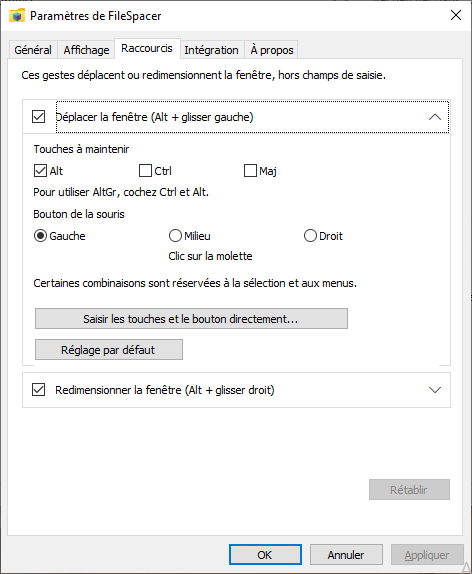
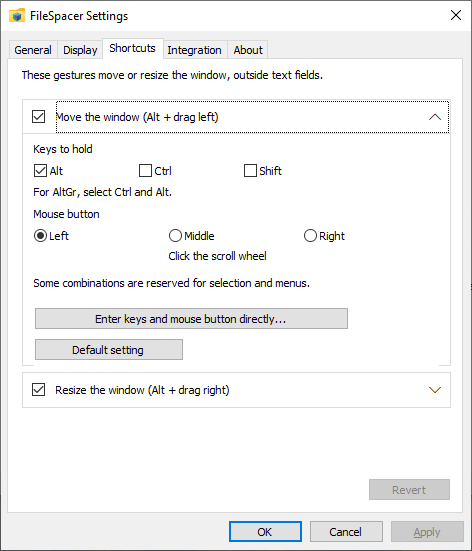
docs: Add bilingual window demos and a latest-release link.
Use English screenshots on the site and preserve the French originals. Add ScreenToGif move/resize demos in both languages, document the padlock badge with title close-ups, and link to the latest release from the site header.

diff --git a/docs/images/README.md b/docs/images/README.md
@@ -1,7 +1,7 @@
 # Documentation screenshots
 
-These PNGs are stored in the repository, alongside the documentation. Markdown
-uses relative paths, so GitHub displays them directly and the website generator
+These PNGs and GIFs are stored in the repository, alongside the documentation.
+Markdown uses relative paths, so GitHub displays them directly and the website generator
 copies the same files into the GitHub Pages build. No separate image host or
 Git LFS setup is needed.
 
@@ -11,23 +11,49 @@ Git LFS setup is needed.
 | `window-menu.png` | The title menu, open folders and the saved-layout lock. |
 | `search.png` | Local search history and the optional Everything action. |
 | `shortcuts.png` | Settings with the movement action expanded. |
+| `locked-title.png` | A close-up of the locked folder's title and padlock badge. |
+| `move-window.gif` | Alt + left drag to move a folder window. |
+| `resize-window.gif` | Alt + right drag to resize a folder window. |
 
-The current series shows FileSpacer 1.1.10 on a French Windows 10 guest, with
-fictional English folder names and contents. See `provenance.json` for the
-capture context, dimensions and checksums.
+The website and English documentation use the English series, with fictional
+English folder names and contents. See `provenance.json` for the capture context,
+dimensions and checksums.
+
+The English captures use the existing en-US resources, selected at startup in a
+disposable documentation build of FileSpacer 1.1.10 because the VM's active
+Windows session remains French. The source UI strings and controls are unchanged.
+
+The original French screenshots are kept as `overview-fr.png`,
+`window-menu-fr.png`, `search-fr.png` and `shortcuts-fr.png` for future French
+documentation. Their capture context and checksums are in `provenance-fr.json`.
+They are not included in the current website build.
+
+The title close-up also has a French copy, `locked-title-fr.png`.
+
+The animations also have French copies, `move-window-fr.gif` and
+`resize-window-fr.gif`. They show the VM's Windows wallpaper around the window
+so that its movement and changing size remain visible.
+
+## Recording an animation
+
+Use ScreenToGif with the cursor and mouse-click highlights enabled. Add an
+automatic **Key strokes** task and disable **Ignore modifier keys**: otherwise
+Alt pressed on its own is hidden. Keep the overlay visible throughout each
+gesture and check the exported GIF, including frames in the middle of the drag.
+Use a short loop with pauses before and after the gesture.
 
 ## Updating a screenshot
 
-Replace the existing PNG under the same name when the corresponding interface
-changes. There is no need to recapture unchanged screens for every release.
+Replace the existing PNG or GIF under the same name when the corresponding
+interface changes. There is no need to recapture unchanged screens for every release.
 Keep the app version and capture context in `provenance.json` current.
 
 Use a dedicated VM with fictional folders and files. Prefer an English Windows
 display language, since FileSpacer follows Windows. Preserve the real interface;
 do not redraw or translate labels inside a screenshot.
 
-Capture only the visible window frame, including its title bar. Keep menus and
-suggestions entirely inside that frame. Exclude the desktop, taskbar, shadows,
+For static screenshots, capture only the visible window frame, including its
+title bar. Keep menus and suggestions entirely inside that frame. Exclude the desktop, taskbar, shadows,
 invisible resize borders and operating-system overlays. A window can be moved
 or resized before capture to keep overlays outside its bounds.
 

diff --git a/docs/user-guide.md b/docs/user-guide.md
@@ -69,6 +69,19 @@ Drag in the file area, on its background or an item, using these defaults:
 | Move the window | Alt + left drag |
 | Resize from the bottom-right corner | Alt + right drag |
 
+<details>
+<summary>See the gestures in action</summary>
+
+**Move the window — Alt + left drag**
+
+![Moving a folder window by holding Alt and dragging in the file area with the left mouse button.](images/move-window.gif)
+
+**Resize the window — Alt + right drag**
+
+![Resizing a folder window by holding Alt and dragging in the file area with the right mouse button.](images/resize-window.gif)
+
+</details>
+
 The selection is preserved. Escape cancels the gesture and restores the original
 geometry. Text fields, headers, scrollbars, toolbars and menus keep their normal
 behavior. Alt + double-click on an item opens its Properties.
@@ -91,11 +104,16 @@ the changes available to open FileSpacer windows.
 
 Enable **Settings > General > Enable window state locking** (off by default), then choose
 **Lock window state** in the menu beside a folder's title. Locking captures its
-position, size and view settings; a padlock identifies a locked folder.
+position, size and view settings. A **padlock badge on the folder icon in the
+title bar**, beside the folder name, identifies a locked layout.
+
+<img src="images/locked-title.png" alt="Close-up of the title bar: a padlock badge overlays the folder icon beside Studio project." width="420">
+
+*The padlock badge marks the saved layout as locked.*
 
 You can still move, resize and change the view temporarily. Reopening the folder
 restores the locked layout. Individual icon positions continue to save normally.
-**Unlock window state** keeps the current layout. The padlock can be hidden in
+**Unlock window state** keeps the current layout. The badge can be hidden in
 General settings without removing the lock.
 
 Disabling the feature asks for confirmation and removes all saved locks,
